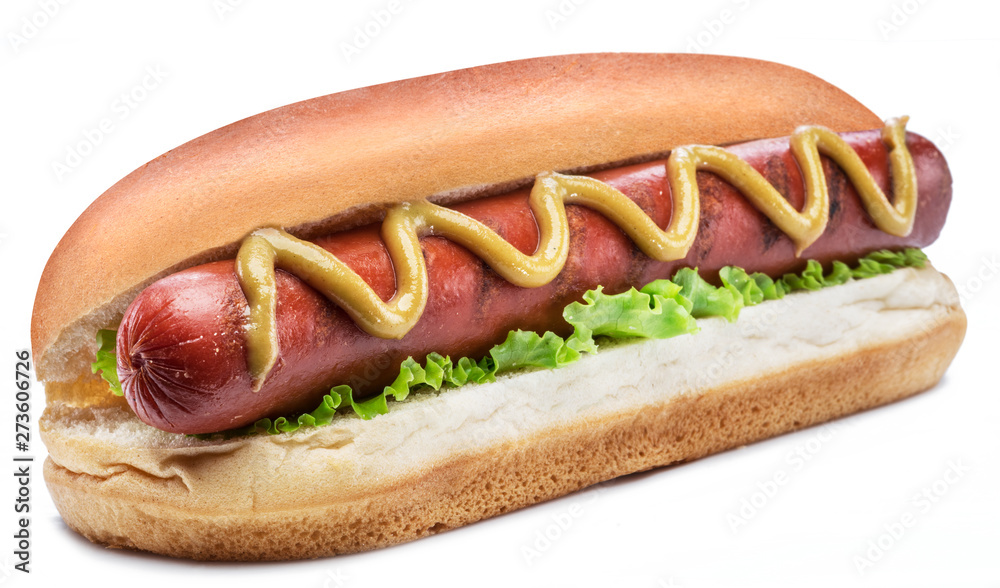
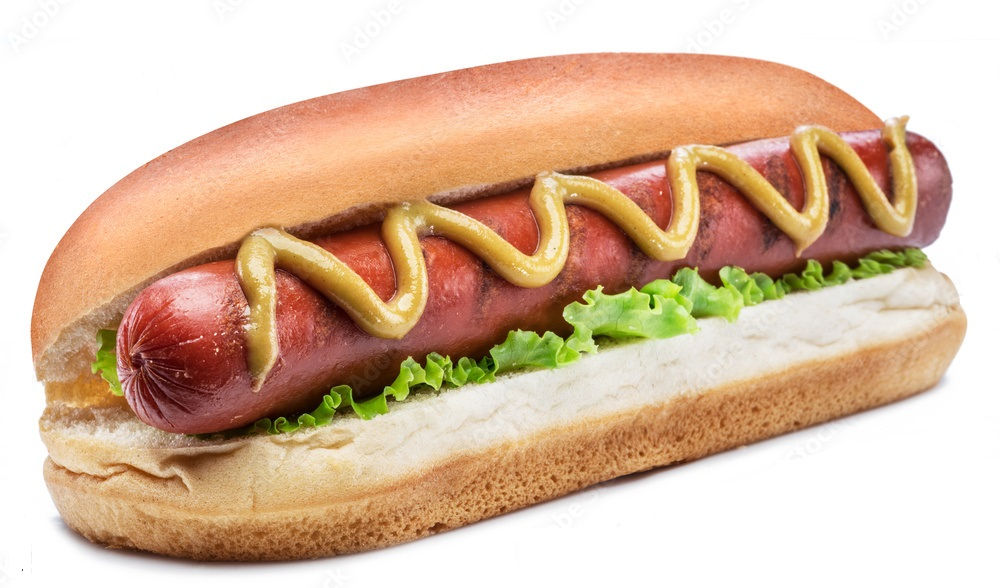
included dog_7.png image at home section

Changed region(s): [[0.0, 0.5816, 0.031, 0.9796]]

diff --git a/assets/css/style.css b/assets/css/style.css
@@ -146,7 +146,7 @@ header .navbar a:hover{
     animation: float 3s linear infinite;
 }
 
-
+/*
 @keyframes float{
     0%, 100%{
         transform: translateY(0rem);
@@ -155,7 +155,10 @@ header .navbar a:hover{
     50%{
         transform: translateY(3rem);
     }
+
 }
+
+*/
 
 .home .content h3{
     font-size: 5rem;

diff --git a/index.html b/index.html
@@ -49,7 +49,7 @@
         </div>
 
         <div class="image">
-            <img src="assets/img/dog_6.png" alt="">
+            <img src="assets/img/dog_7.png" alt="">
         </div>
 
      </section>
